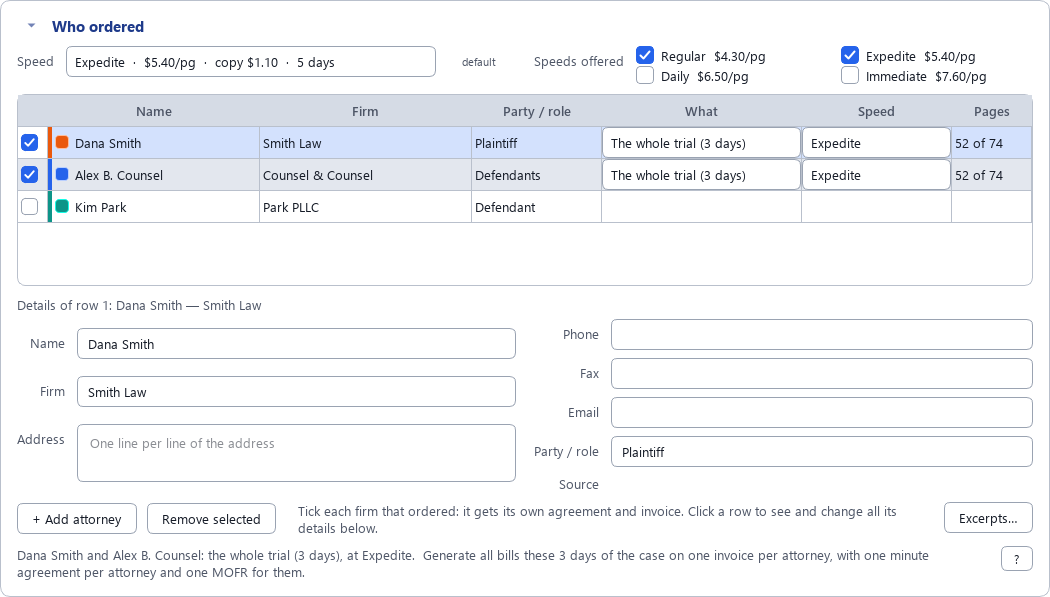
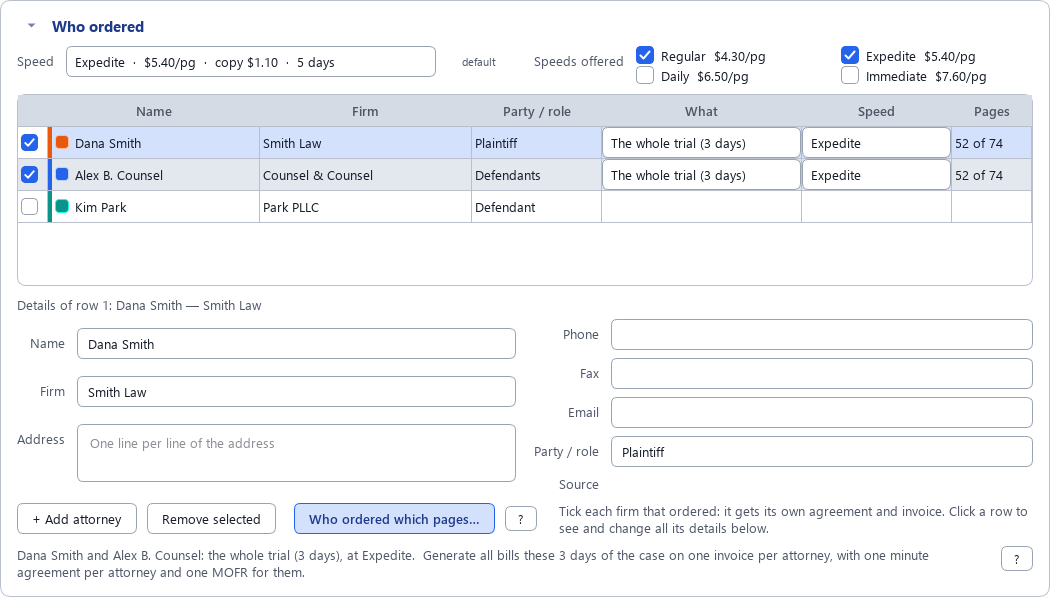
Website for 2.15: "Who ordered which pages…" and its ?, case folders named for their days, the Inputs copy

Changed region(s): [[0.2743, 0.8442, 0.9752, 0.9045]]

diff --git a/docs/index.html b/docs/index.html
@@ -111,7 +111,7 @@
     <img class="shot" src="invoice.png" alt="One invoice for two days of a case, listing the Regular and Expedite amounts">
     <div>
       <h2>Invoices from your transcripts</h2>
-      <p>Drop a transcript PDF and tick <b>Invoice</b>. The page count leaves out the word index printed after the transcript, and the line under it says so: "Transcript pages 378&ndash;460 &middot; excludes the 13 word-index pages after them". It is counted four ways (up to the index, by the line numbers, by the printed page numbers, and the index found from the end); if they disagree, or the index would be more than a quarter of the PDF, the field turns amber and tells you why. The page count and your rate sheet price the original, each party's copy and e-mailed copy, and for long transcripts an index for each party, plus one for the judge that the parties split. Whether there is an index is decided on the whole transcript, every reporter's pages (50 pages or more to start with): your 45 pages of an 83-page transcript get one, charged on your 45. Typed fewer pages in <b>Est. number of pages</b> than the transcript has, and that would change it (40 of 83, say)? <b>Generate</b> asks you instead of deciding, and remembers your answer for that day; <b>Peripherals…</b> shows it and lets you change it. The speeds you tick under <b>Speeds offered</b> (Regular and Expedited to start with) are the ones the invoice offers, each with its turnaround and amount, and with how to pay you. The agreement form names one of them, at one rate per page: Expedited when you offer it, otherwise the slowest. Settings &rarr; Invoice changes that rule, and the <b>Speed</b> dropdown in <b>Who ordered</b> changes it for the job, every day of a trial. No transcript, just a caption page? Type the pages in <b>Est. number of pages</b> and the invoice bills them. Want the page count, the pages of each day and the charges spelled out for this job? Tick <b>Show granular detail</b>, and choose what it shows. <b>Peripherals…</b> drops the e-mailed copy, or says yes or no to the index, for this job only, and the <b>Invoice</b> card says why there is an index or not: "83 total pages, 50 or more". The notes on the invoice are yours to write, too: place them where you like and have them show only when they apply ("delivered once every party has paid" only when several parties ordered). Four firms sharing the pages can come to part of a cent a page ($6.6125): keep every fraction and round once at the end, as before, or set <b>Rounding</b> to <i>The price a page, to the cent</i> to bill $6.61 &times; 1,000 pages = $6,610.00, the way a firm checks it with a calculator. The prices in Excerpts&hellip; are rounded the same way.</p>
+      <p>Drop a transcript PDF and tick <b>Invoice</b>. The page count leaves out the word index printed after the transcript, and the line under it says so: "Transcript pages 378&ndash;460 &middot; excludes the 13 word-index pages after them". It is counted four ways (up to the index, by the line numbers, by the printed page numbers, and the index found from the end); if they disagree, or the index would be more than a quarter of the PDF, the field turns amber and tells you why. The page count and your rate sheet price the original, each party's copy and e-mailed copy, and for long transcripts an index for each party, plus one for the judge that the parties split. Whether there is an index is decided on the whole transcript, every reporter's pages (50 pages or more to start with): your 45 pages of an 83-page transcript get one, charged on your 45. Typed fewer pages in <b>Est. number of pages</b> than the transcript has, and that would change it (40 of 83, say)? <b>Generate</b> asks you instead of deciding, and remembers your answer for that day; <b>Peripherals…</b> shows it and lets you change it. The speeds you tick under <b>Speeds offered</b> (Regular and Expedited to start with) are the ones the invoice offers, each with its turnaround and amount, and with how to pay you. The agreement form names one of them, at one rate per page: Expedited when you offer it, otherwise the slowest. Settings &rarr; Invoice changes that rule, and the <b>Speed</b> dropdown in <b>Who ordered</b> changes it for the job, every day of a trial. No transcript, just a caption page? Type the pages in <b>Est. number of pages</b> and the invoice bills them. Want the page count, the pages of each day and the charges spelled out for this job? Tick <b>Show granular detail</b>, and choose what it shows. <b>Peripherals…</b> drops the e-mailed copy, or says yes or no to the index, for this job only, and the <b>Invoice</b> card says why there is an index or not: "83 total pages, 50 or more". The notes on the invoice are yours to write, too: place them where you like and have them show only when they apply ("delivered once every party has paid" only when several parties ordered). Four firms sharing the pages can come to part of a cent a page ($6.6125): keep every fraction and round once at the end, as before, or set <b>Rounding</b> to <i>The price a page, to the cent</i> to bill $6.61 &times; 1,000 pages = $6,610.00, the way a firm checks it with a calculator. The prices in Who ordered which pages&hellip; are rounded the same way.</p>
       <p>Shared the trial with another reporter? The invoice bills only <b>your</b> pages, the ones with your initials at the foot: 65 of a 150-page transcript, say. <b>Whose pages…</b> lets you tick <b>My pages</b>, another reporter's pages, or <b>The whole transcript</b>, and the app asks when it can't tell. Each other reporter you tick gets invoices for their own pages, in their name, with their address and payment details (Settings &rarr; Run sheet &rarr; Invoices for, or <b>Details…</b>), numbered apart from yours (DS-2026-0001), with file names that say whose they are. Sample shown uses made-up names.</p>
     </div>
   </div>
@@ -120,10 +120,10 @@
 <section>
   <div class="wrap two">
     <div>
-      <h2>Excerpts: the whole case on one table</h2>
-      <p>One firm ordered the whole trial, another part of day 1, a third part of that and a stretch of day 2? <b>Excerpts…</b> (in Who ordered, or <i>Some days or pages…</i> in a firm's row) lists every day of the case on that invoice in one table. Each row is a run of pages, typed in the transcript's own page numbers (141-170), and the rows around it make room. Tick the firms that ordered each run. <b>Split run</b> cuts a run in two, and <b>Remove run</b> (or the Delete key, or a right-click) gives its pages to the run next to it; <b>Remove this day's excerpts</b> and <b>Remove all excerpts</b> go back to whole days. Each run shows its date and weekday, and each set of firms ordering together has its own colour. As you type, it shows what each run costs each firm at every speed you offer (<b>Prices for:</b> hides a speed), what each group of firms ordering together pays, and each firm's invoice. Pages ordered together split the original and the judge's index, and every firm pays for its own copy, e-mailed copy and index. A run nobody ticks is billed to nobody. The window stays open beside the app and follows what you change there. Sample shown uses made-up names.</p>
+      <h2>Who ordered which pages: the whole case on one table</h2>
+      <p>One firm ordered the whole trial, another part of day 1, a third part of that and a stretch of day 2? <b>Who ordered which pages…</b> (in Who ordered, or <i>Some days or pages…</i> in a firm's row) lists every day of the case on that invoice in one table. The <b>?</b> beside the button shows the steps. Each row is a run of pages, typed in the transcript's own page numbers (141-170), and the rows around it make room. Tick the firms that ordered each run. <b>Split run</b> cuts a run in two, and <b>Remove run</b> (or the Delete key, or a right-click) gives its pages to the run next to it; <b>Remove this day's excerpts</b> and <b>Remove all excerpts</b> go back to whole days. Each run shows its date and weekday, and each set of firms ordering together has its own colour. As you type, it shows what each run costs each firm at every speed you offer (<b>Prices for:</b> hides a speed), what each group of firms ordering together pays, and each firm's invoice. Pages ordered together split the original and the judge's index, and every firm pays for its own copy, e-mailed copy and index. A run nobody ticks is billed to nobody. The window stays open beside the app and follows what you change there. Sample shown uses made-up names.</p>
     </div>
-    <img class="shot" src="excerpts.png" alt="The Excerpts table: two days of a case with their dates and weekdays, a row per run of pages coloured by the firms ordering it, a box per firm, what each firm pays at Regular and Expedite, and the Remove buttons">
+    <img class="shot" src="excerpts.png" alt="The Who ordered which pages table: the days of a trial with their dates and weekdays, a row per run of pages coloured by the firms ordering it, a box per firm with its speed and price, what each firm pays, and the Remove buttons">
   </div>
 </section>
 
@@ -131,8 +131,8 @@
   <div class="wrap two">
     <div>
       <h2>Who pays for what, in plain sight</h2>
-      <p>Who ordered, what and at what speed, in one card: <b>Who ordered</b> lists every firm of the trial, whichever day you're looking at. Drop the four transcripts of a trial, tick the two firms that ordered it, and that's it: each orders the whole trial, at the speed its row names (<i>Expedite</i>, say), and Generate all bills it that way, without a question. A day you drop in later is theirs too. A firm that ordered only one day, or a few pages? Its <b>What</b> box makes it <i>Only 6/4/2026</i>, or opens Excerpts… for the rest, and its tick goes half full. Its <b>Speed</b> box names the speed it's billed, and choosing another sets it for every day. A firm ordering alone shows <i>They choose: Regular or Expedite</i>: its invoice lists each speed. The line under the table says it in words ("Counsel &amp; Counsel and Smith Law: the whole trial (4 days), at Expedite."), and what Generate all will bill: a ✓ for a day invoiced already, and in amber when an invoice won't be made yet (a day nobody ordered, an excerpt to check, whose pages to bill). Each firm has a square and a stripe of its colour, the same on every day. Rather tick each day on its own? Settings &rarr; Options. Opened again from Records, a trial comes back with who ordered each day. <b>Generate all</b> asks before it bills a case with a day not decided: go back and decide, or go on without it.</p>
-      <p><b>Different speeds on the same pages?</b> Firms that share pages each commit to a speed: each row names the speed it's billed, the agreement form's unless you choose another in the card's <b>Speed</b> column (or one run's own in Excerpts…), and Generate bills it without a question (Settings &rarr; Invoice can have it ask instead). The one original is billed at the fastest speed ordered; each slower firm pays its share as if every firm had ordered its speed, the fastest pays the rest, and each pays its own copies at its own speed. One firm at Daily and one at Immediate, 10 pages of Sample Rates: the original is $7.60 a page at Immediate, the Daily firm pays $6.50 &divide; 2 = $3.25 of it and the Immediate firm $4.35, and together they pay exactly the bill. A firm with two speeds gets one minute agreement, both speeds ticked. For now, at most two speeds may share the same pages. Sample shown uses made-up names.</p>
+      <p>Who ordered, what and at what speed, in one card: <b>Who ordered</b> lists every firm of the trial, whichever day you're looking at. Drop the four transcripts of a trial, tick the two firms that ordered it, and that's it: each orders the whole trial, at the speed its row names (<i>Expedite</i>, say), and Generate all bills it that way, without a question. A day you drop in later is theirs too. A firm that ordered only one day, or a few pages? Its <b>What</b> box makes it <i>Only 6/4/2026</i>, or opens Who ordered which pages… for the rest, and its tick goes half full. Its <b>Speed</b> box names the speed it's billed, and choosing another sets it for every day. A firm ordering alone shows <i>They choose: Regular or Expedite</i>: its invoice lists each speed. The line under the table says it in words ("Counsel &amp; Counsel and Smith Law: the whole trial (4 days), at Expedite."), and what Generate all will bill: a ✓ for a day invoiced already, and in amber when an invoice won't be made yet (a day nobody ordered, an excerpt to check, whose pages to bill). Each firm has a square and a stripe of its colour, the same on every day. Rather tick each day on its own? Settings &rarr; Options. Opened again from Records, a trial comes back with who ordered each day. <b>Generate all</b> asks before it bills a case with a day not decided: go back and decide, or go on without it.</p>
+      <p><b>Different speeds on the same pages?</b> Firms that share pages each commit to a speed: each row names the speed it's billed, the agreement form's unless you choose another in the card's <b>Speed</b> column (or one run's own in Who ordered which pages…), and Generate bills it without a question (Settings &rarr; Invoice can have it ask instead). The one original is billed at the fastest speed ordered; each slower firm pays its share as if every firm had ordered its speed, the fastest pays the rest, and each pays its own copies at its own speed. One firm at Daily and one at Immediate, 10 pages of Sample Rates: the original is $7.60 a page at Immediate, the Daily firm pays $6.50 &divide; 2 = $3.25 of it and the Immediate firm $4.35, and together they pay exactly the bill. A firm with two speeds gets one minute agreement, both speeds ticked. For now, at most two speeds may share the same pages. Sample shown uses made-up names.</p>
     </div>
     <img class="shot" src="orders.png" alt="The Who ordered card for a trial of three days: the Speed of the forms and the speeds offered at the top, a row per firm with a square and a stripe of its colour (Dana Smith orange, Alex B. Counsel blue, Kim Park teal), Dana Smith and Alex B. Counsel ticked once, each ordering the whole trial (3 days) at Expedite and billed 52 of 74 pages, Kim Park unticked, the details of the row selected under the table, and the line saying it in words">
   </div>
@@ -206,7 +206,7 @@
       <div class="card"><h3>Remembers you</h3><p>Your name, address, phone, e-mail, rate sheet, copies and signature are set once in Settings. The speeds you offer and what you tick in the Outputs box stay ticked.</p></div>
       <div class="card"><h3>Fix it afterwards</h3><p>The PDFs stay fillable: every value the app typed in, invoice amounts included, can be corrected in a PDF viewer. When it's final, File &rarr; Lock finished PDFs saves a locked copy.</p></div>
       <div class="card"><h3>Fits your screen</h3><p>Works with Windows' display scaling, and Ctrl + and Ctrl &minus; (or Ctrl and the mouse wheel) make everything bigger or smaller. The Outputs box is one row, so the form keeps the room. Fold any card to one line that sums it up (the View menu does them all), and drag the divider; the app remembers.</p></div>
-      <div class="card"><h3>Your folders</h3><p>Each case gets a folder of its own, named by its index number (712345-2021) or as you like, next to your documents or in the folder you choose, with a folder inside for each kind of file: Minute Agreements, MOFR, Invoices, Math and Trial Runs. Or give agreements, invoices, MOFRs and run sheets a folder each.</p></div>
+      <div class="card"><h3>Your folders</h3><p>Each case gets a folder of its own, named by its index number, days and caption (234567-2026 10-13,14,15-2026 Jones v USA Hauling) or as you like, next to your documents or in the folder you choose, with a folder inside for each kind of file: Minute Agreements, MOFR, Invoices, Math and Trial Runs. A day you make later renames it to add its day, and Records and the run sheet follow. Its name keeps only what every computer and cloud drive takes. Tick a box in Settings to keep a copy of the transcripts and e-mails each job was made from in an Inputs folder there too. Or give agreements, invoices, MOFRs and run sheets a folder each.</p></div>
       <div class="card"><h3>Your rate sheets</h3><p>Rates live in small spreadsheets (CSV) you can edit in Excel: private, city, whatever you charge. A speed missing a price (Original, Copy, Email or Index) is pointed out, and so is a faster speed that costs less than a slower one (&ldquo;Daily's Index, $1.00, is less than Expedite's, $1.10&rdquo;). The column headings don't have to be exact.</p></div>
       <div class="card"><h3>Optional local AI</h3><p>If you use Ollama, an AI helper can read messy photos and e-mails. It is only used when Ollama is installed, and it stays on your machine. Everything it says is checked against the document, and it ticks who ordered only from e-mails and pasted text. Choose the smaller, faster model or the larger, more accurate one in Settings.</p></div>
       <div class="card"><h3>A new computer?</h3><p>File &rarr; Export settings saves your details, options and rate sheets as one file; Import settings reads it on the other computer. Giving it to a colleague? Leave your personal details out with one click. A short welcome asks a new user the few things the forms need.</p></div>
